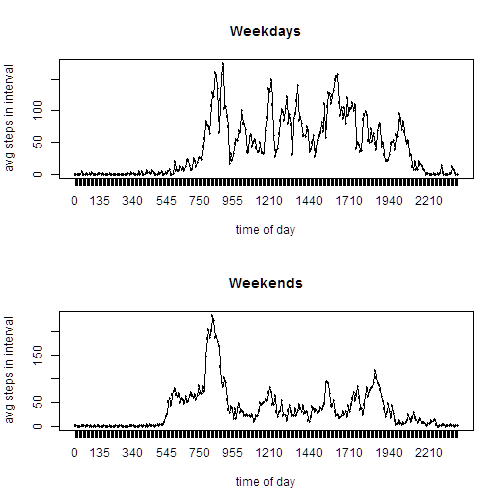
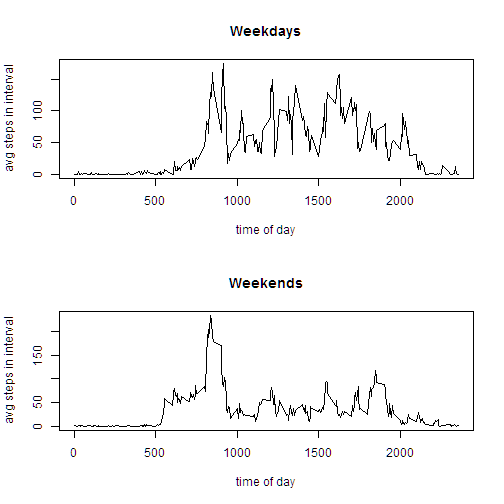
Getting close; needs refining.

diff --git a/PA1_template.html b/PA1_template.html
@@ -194,6 +194,8 @@ hr {
 
 <h1></h1>
 
+<h1></h1>
+
 <h2>Loading and preprocessing the data</h2>
 
 <p>I ran this in R gui 3.1.1, rather than Rstudio, using the command line
@@ -226,6 +228,8 @@ we check that there are the correct number of rows:</p>
 
 <p>We then removed the NA&#39;s, of which there are 2304 values.
 We call the first data frame d1, and the second d1Clean.</p>
+
+<h1></h1>
 
 <h2>What is mean total number of steps taken per day?</h2>
 
@@ -303,6 +307,8 @@ It must be making up its own mind about rounding or formatting.</p>
 <p>While there are options to correct this, I have to know how many 
 digits to specify. The result is not so general as one would like.</p>
 
+<h1></h1>
+
 <h2>What is the average daily activity pattern?</h2>
 
 <p>We take the clean data (without the NA&#39;s), and we 
@@ -314,20 +320,24 @@ This gives us the graph we&#39;re looking for:</p>
 hourlyTotals &lt;- aggregate(d1Clean$steps,by=list(d1Clean$interval),mean)
 colnames(hourlyTotals) &lt;- c(&quot;interval&quot;,&quot;steps&quot;)
 
-plot(hourlyTotals$interval,hourlyTotals$steps,
+# note you must convert the interval to character, or a line drawing
+# does not work!! - the type=&quot;l&quot; is ignored. This is what I did before
+# I figured it out (for my own records).
+# plot(hourlyTotals$interval,hourlyTotals$steps,
+#         type = &quot;l&quot;,
+#         xlab=&quot;time of day&quot;,
+#         ylab=&quot;avg steps in interval&quot;)
+# lines(hourlyTotals$steps)
+
+plot(as.character(hourlyTotals$interval),hourlyTotals$steps,
         type = &quot;l&quot;,
         xlab=&quot;time of day&quot;,
         ylab=&quot;avg steps in interval&quot;)
-lines(hourlyTotals$steps)
 </code></pre>
 
[2 lines of base64/hex data omitted]
 
-<p>Well this makes sense - our individual goes to bed at night. 
-For the life of me, however, I can&#39;t make this a line drawing -
-the type=&ldquo;l&rdquo; option is being ignored. No matter what I do,
-I can&#39;t connect the dots. So my workaround is to add the call to lines,
-so the graph looks vaguely correct. Evaluator, can you help?</p>
+<p>Well this makes sense - our individual goes to bed at night. </p>
 
 <p>We are asked to locate the maximum, which we know about where it will lie.
 We use the R match function, or the which function:</p>
@@ -357,6 +367,8 @@ element of our totals is the maximum, which occurs at interval
 hourlyTotals$interval[104], 835.
 Wherever this subject goes every day,
 they get there about 8:30 or 8:45 in the morning.</p>
+
+<h1></h1>
 
 <h2>Imputing missing values</h2>
 
@@ -524,6 +536,8 @@ not surprisingly, pulled closer together.</p>
 or had I taken some other approach, this analysis of imputing missing values 
 might have had a more interesting result.</p>
 
+<h1></h1>
+
 <h2>Are there differences in activity patterns between weekdays and weekends?</h2>
 
 <p>First we add the day of week, then we figure out what the hell it means.
@@ -542,21 +556,19 @@ weekendHourlyTotals &lt;- aggregate(d2Clean[[2]]$steps,
 colnames(weekendHourlyTotals) &lt;- c(&quot;interval&quot;,&quot;steps&quot;)
 # rm(d2Clean)
 par(mfrow=c(2,1))
-plot(weekdayHourlyTotals$interval,weekdayHourlyTotals$steps,
+plot(as.character(weekdayHourlyTotals$interval),weekdayHourlyTotals$steps,
         type = &quot;l&quot;,
         main=&quot;Weekdays&quot;,
         xlab=&quot;time of day&quot;,
         ylab=&quot;avg steps in interval&quot;)
-lines(weekdayHourlyTotals$steps)
-plot(weekendHourlyTotals$interval,weekendHourlyTotals$steps,
+plot(as.character(weekendHourlyTotals$interval),weekendHourlyTotals$steps,
         type = &quot;l&quot;,
         main=&quot;Weekends&quot;,
         xlab=&quot;time of day&quot;,
         ylab=&quot;avg steps in interval&quot;)
-lines(weekendHourlyTotals$steps)
 </code></pre>
 
[2 lines of base64/hex data omitted]
 
 <p>The differences and similarities between weekends and weekdays are striking.
 Clearly, our subject goes somewhere every morning on foot at a regular time,

diff --git a/PA1_template.md b/PA1_template.md
@@ -1,6 +1,7 @@
 # Reproducible Research: Peer Assessment 1
 ================================================================================
 
+================================================================================
 ## Loading and preprocessing the data
 
 I ran this in R gui 3.1.1, rather than Rstudio, using the command line
@@ -39,6 +40,7 @@ and this shows that there are 17568 rows of data.
 We then removed the NA's, of which there are 2304 values.
 We call the first data frame d1, and the second d1Clean.
 
+================================================================================
 ## What is mean total number of steps taken per day?
 
 We have two steps: first get the total number of steps taken each day.
@@ -119,6 +121,7 @@ It must be making up its own mind about rounding or formatting.
 While there are options to correct this, I have to know how many 
 digits to specify. The result is not so general as one would like.
 
+================================================================================
 ## What is the average daily activity pattern?
 
 We take the clean data (without the NA's), and we 
@@ -132,21 +135,24 @@ d1Clean$interval <- as.factor(d1Clean$interval)
 hourlyTotals <- aggregate(d1Clean$steps,by=list(d1Clean$interval),mean)
 colnames(hourlyTotals) <- c("interval","steps")
 
-plot(hourlyTotals$interval,hourlyTotals$steps,
+# note you must convert the interval to character, or a line drawing
+# does not work!! - the type="l" is ignored. This is what I did before
+# I figured it out (for my own records).
+# plot(hourlyTotals$interval,hourlyTotals$steps,
+#         type = "l",
+#         xlab="time of day",
+#         ylab="avg steps in interval")
+# lines(hourlyTotals$steps)
+
+plot(as.character(hourlyTotals$interval),hourlyTotals$steps,
         type = "l",
         xlab="time of day",
         ylab="avg steps in interval")
-lines(hourlyTotals$steps)
 ```
 
 ![plot of chunk chunk2](figure/chunk2.png) 
 
 Well this makes sense - our individual goes to bed at night. 
-For the life of me, however, I can't make this a line drawing -
-the type="l" option is being ignored. No matter what I do,
-I can't connect the dots. So my workaround is to add the call to lines,
-so the graph looks vaguely correct. Evaluator, can you help?
-
 
 We are asked to locate the maximum, which we know about where it will lie.
 We use the R match function, or the which function:
@@ -183,6 +189,7 @@ hourlyTotals$interval[104], 835.
 Wherever this subject goes every day,
 they get there about 8:30 or 8:45 in the morning.
 
+================================================================================
 ## Imputing missing values
 
 As mentioned above, there are 2304 missing values.
@@ -355,6 +362,7 @@ not surprisingly, pulled closer together.
 or had I taken some other approach, this analysis of imputing missing values 
 might have had a more interesting result.
 
+================================================================================
 ## Are there differences in activity patterns between weekdays and weekends?
 
 First we add the day of week, then we figure out what the hell it means.
@@ -374,18 +382,16 @@ weekendHourlyTotals <- aggregate(d2Clean[[2]]$steps,
 colnames(weekendHourlyTotals) <- c("interval","steps")
 # rm(d2Clean)
 par(mfrow=c(2,1))
-plot(weekdayHourlyTotals$interval,weekdayHourlyTotals$steps,
+plot(as.character(weekdayHourlyTotals$interval),weekdayHourlyTotals$steps,
         type = "l",
         main="Weekdays",
         xlab="time of day",
         ylab="avg steps in interval")
-lines(weekdayHourlyTotals$steps)
-plot(weekendHourlyTotals$interval,weekendHourlyTotals$steps,
+plot(as.character(weekendHourlyTotals$interval),weekendHourlyTotals$steps,
         type = "l",
         main="Weekends",
         xlab="time of day",
         ylab="avg steps in interval")
-lines(weekendHourlyTotals$steps)
 ```
 
 ![plot of chunk addDayOfWeek](figure/addDayOfWeek.png) 
